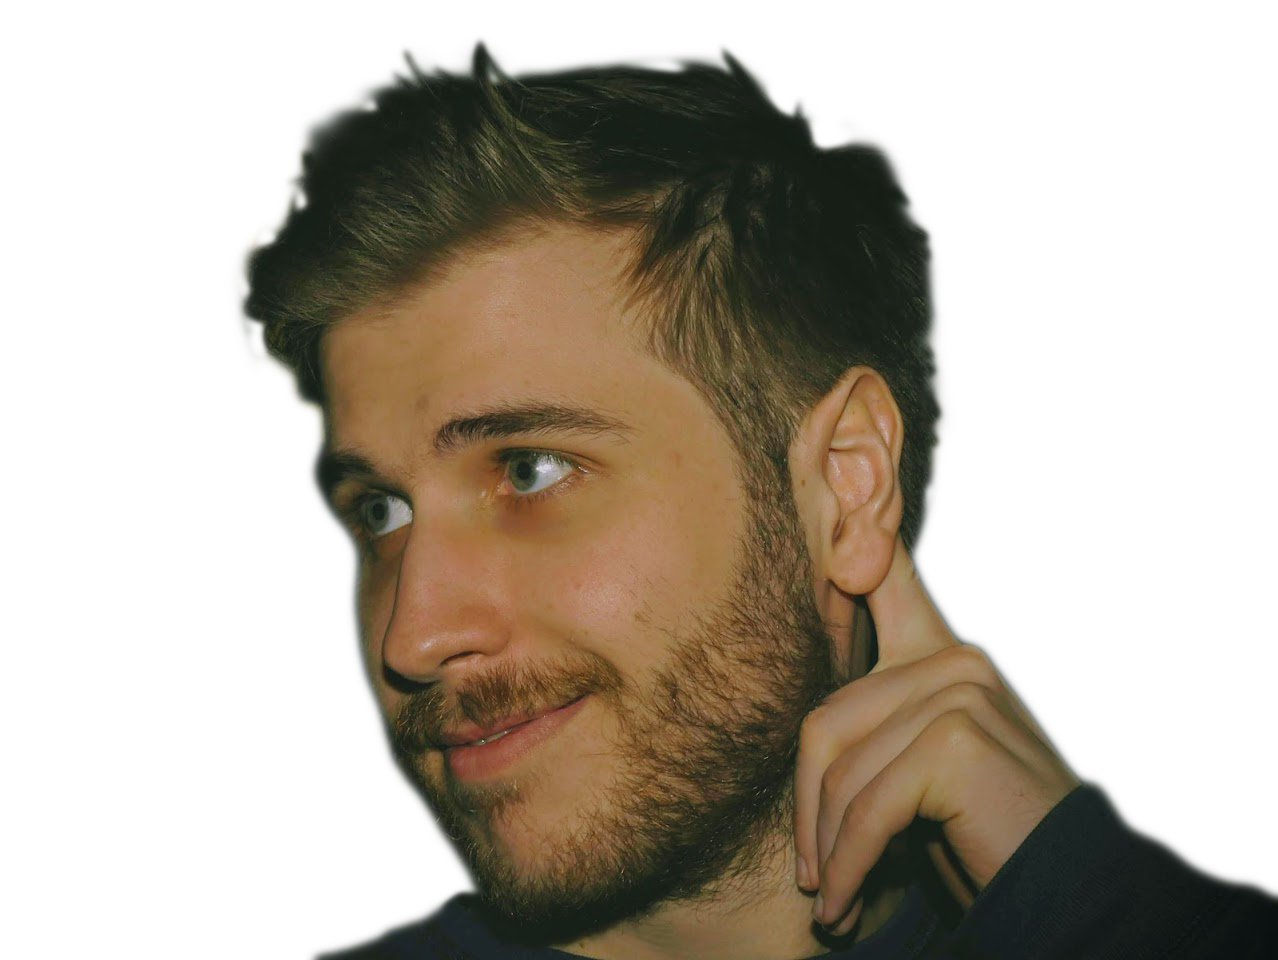
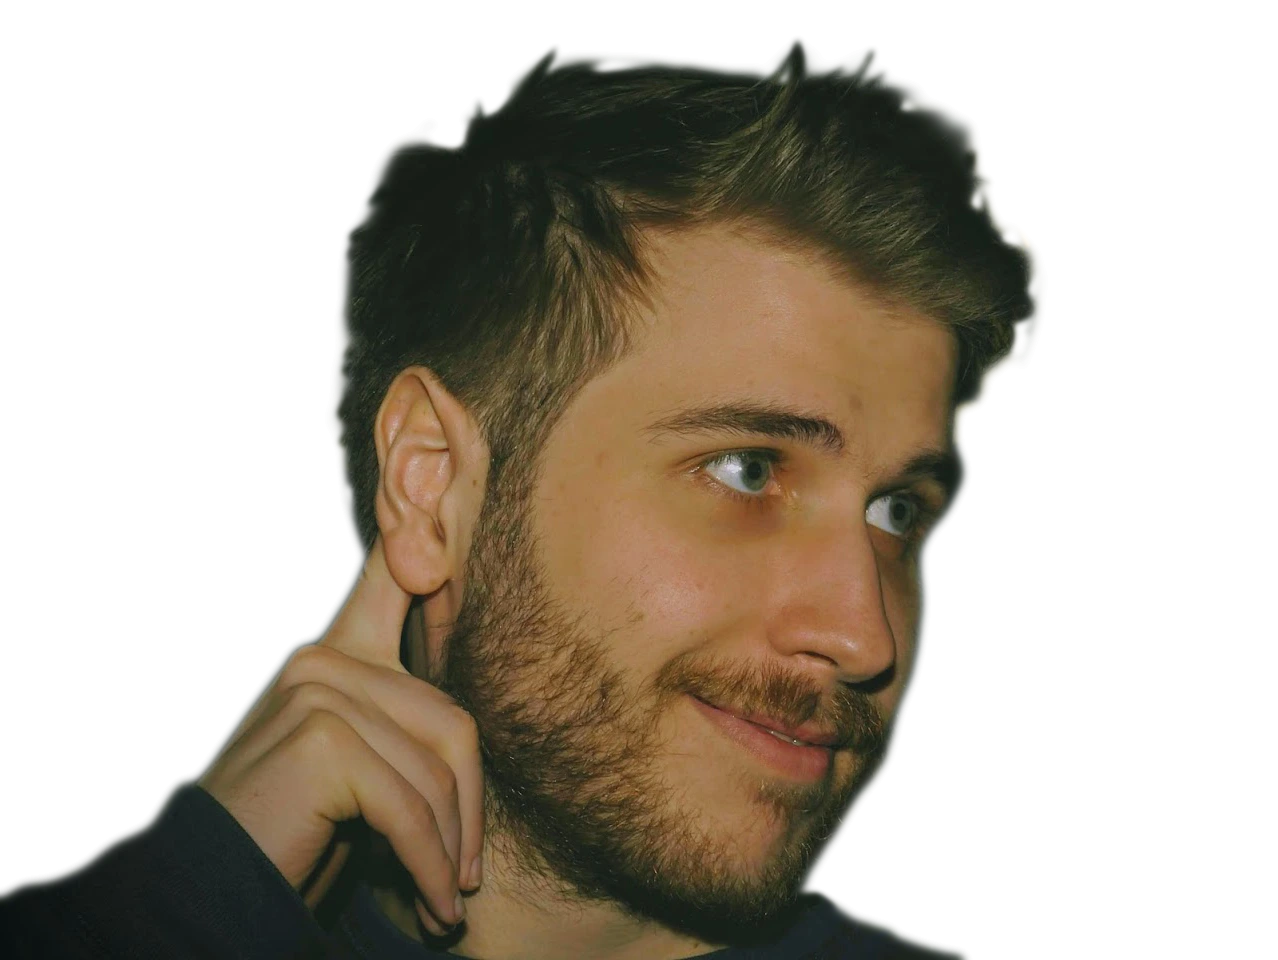
feat: refined about page with better animations

diff --git a/src/components/about.tsx b/src/components/about.tsx
@@ -4,7 +4,7 @@ import { Socials } from '@/components/socials'
 import profileImage from '@/assets/images/profile.webp'
 import { Container } from '@/layouts/container'
 import { Link } from './primitives/ui/link'
-import { useAnimate, useInView } from 'framer-motion'
+import { useAnimate, useInView, stagger } from 'framer-motion'
 import { cn } from '@/utils/classname'
 import {
   RxCross2 as CrossIcon
@@ -22,6 +22,7 @@ const About: React.FC<AboutProps> = ({
   className
 }) => {
   const [imageRef, animateImage] = useAnimate()
+  const [socialsRef, animateSocials] = useAnimate()
   const containerRef = useRef(null)
   const isInView = useInView(containerRef, {
     margin: "-200px 0px",
@@ -43,11 +44,18 @@ const About: React.FC<AboutProps> = ({
       animateImage(imageRef.current, {
         opacity: [0, 1],
         translateY: [30, 0],
-        scaleX: ['-100%', '-100%'],
-        rotate: ['6deg', '6deg']
+        rotate: ['-6deg', '-6deg']
       }, {
         duration: 0.5,
         ease: 'easeOut'
+      })
+
+      animateSocials("li", {
+        opacity: [0, 1],
+        transform: ['translateY(20px)', 'translateY(0px)']
+      }, {
+        duration: 0.5,
+        delay: stagger(0.1, { startDelay: 0.3 })
       })
     }
   }, [isInView])
@@ -68,7 +76,7 @@ const About: React.FC<AboutProps> = ({
                 <div className='absolute w-full aspect-[3/4] rounded-b-full overflow-clip bottom-[-1px]'>
                   <img
                     ref={imageRef}
-                    className='absolute bottom-0 w-full aspect-[300/360] object-cover scale-x-[-100%] -rotate-6 opacity-0'
+                    className='absolute bottom-0 w-full aspect-[300/360] object-cover rotate-6 opacity-0'
                     src={profileImage.src}
                   >
                   </img>
@@ -105,6 +113,7 @@ const About: React.FC<AboutProps> = ({
                 Learn more
               </Link>
               <Socials
+                ref={socialsRef}
                 variant='minimal'
               />
             </div>

diff --git a/src/components/socials.tsx b/src/components/socials.tsx
@@ -10,14 +10,15 @@ type SocialsProps = {
   variant?: 'default' | 'minimal'
 }
 
-const Socials: React.FC<SocialsProps> = ({
+const Socials = React.forwardRef<HTMLUListElement, SocialsProps>(({
   className,
   variant = 'default'
-}) => {
+}, ref) => {
   switch (variant) {
     case 'default':
       return (
         <ul
+          ref={ref}
           className={cn(
             className,
             "flex flex-row gap-8 justify-center items-center text-foreground"
@@ -64,6 +65,7 @@ const Socials: React.FC<SocialsProps> = ({
     case 'minimal':
       return (
         <ul
+          ref={ref}
           className={cn(
             "flex flex-row gap-2 justify-center items-center text-foreground",
             className
@@ -99,6 +101,6 @@ const Socials: React.FC<SocialsProps> = ({
         </ul>
       )
   }
-}
+})
 
 export { Socials }
